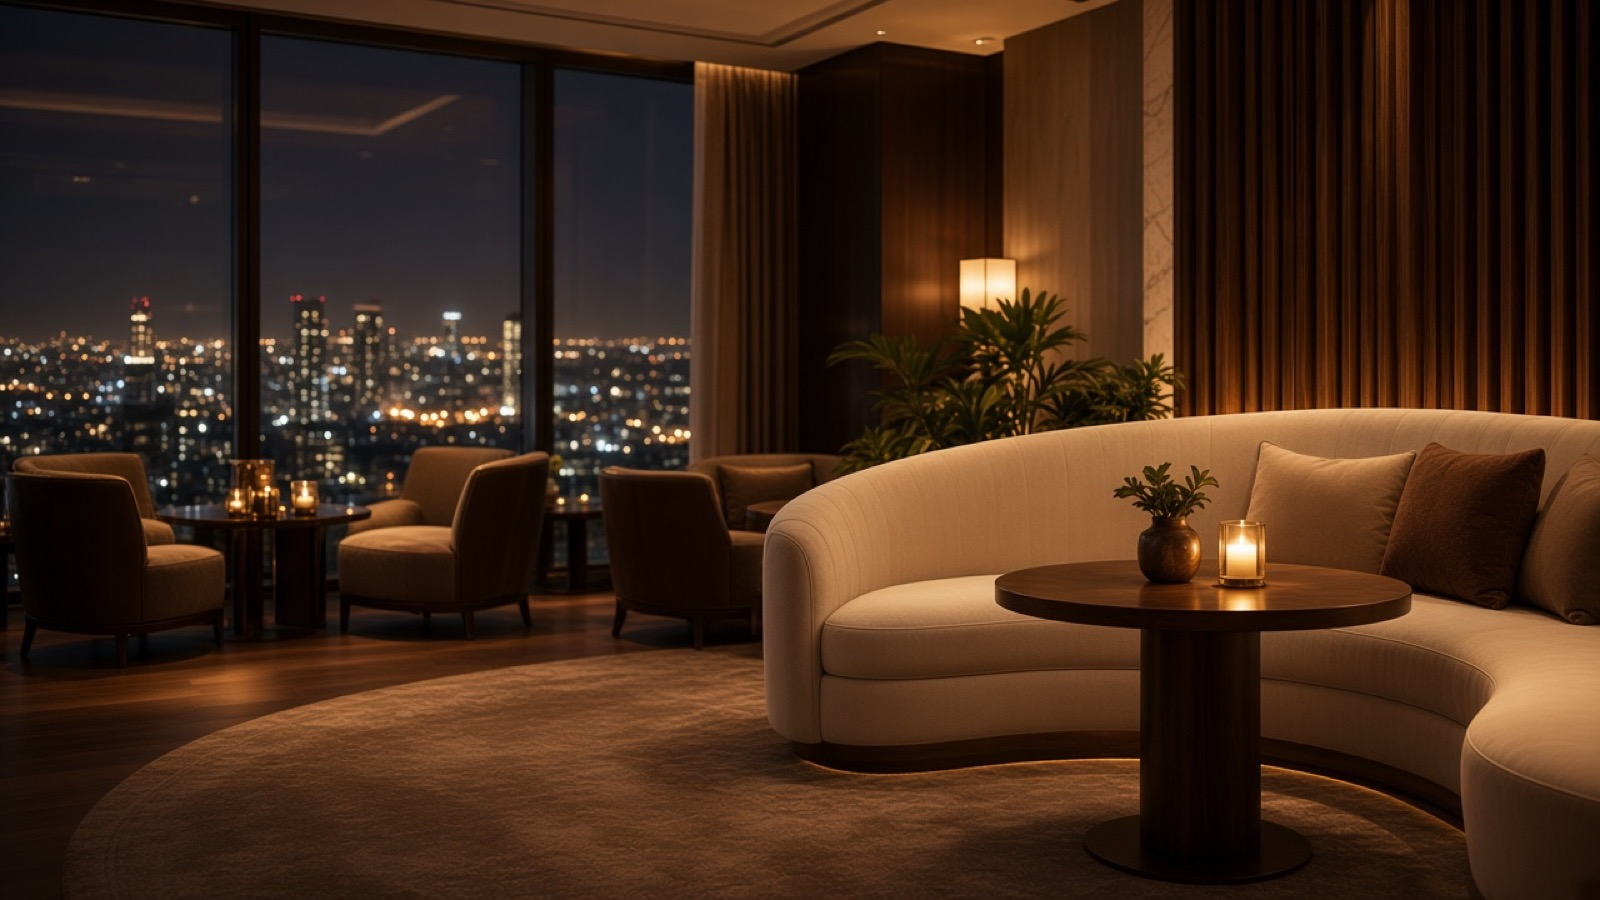
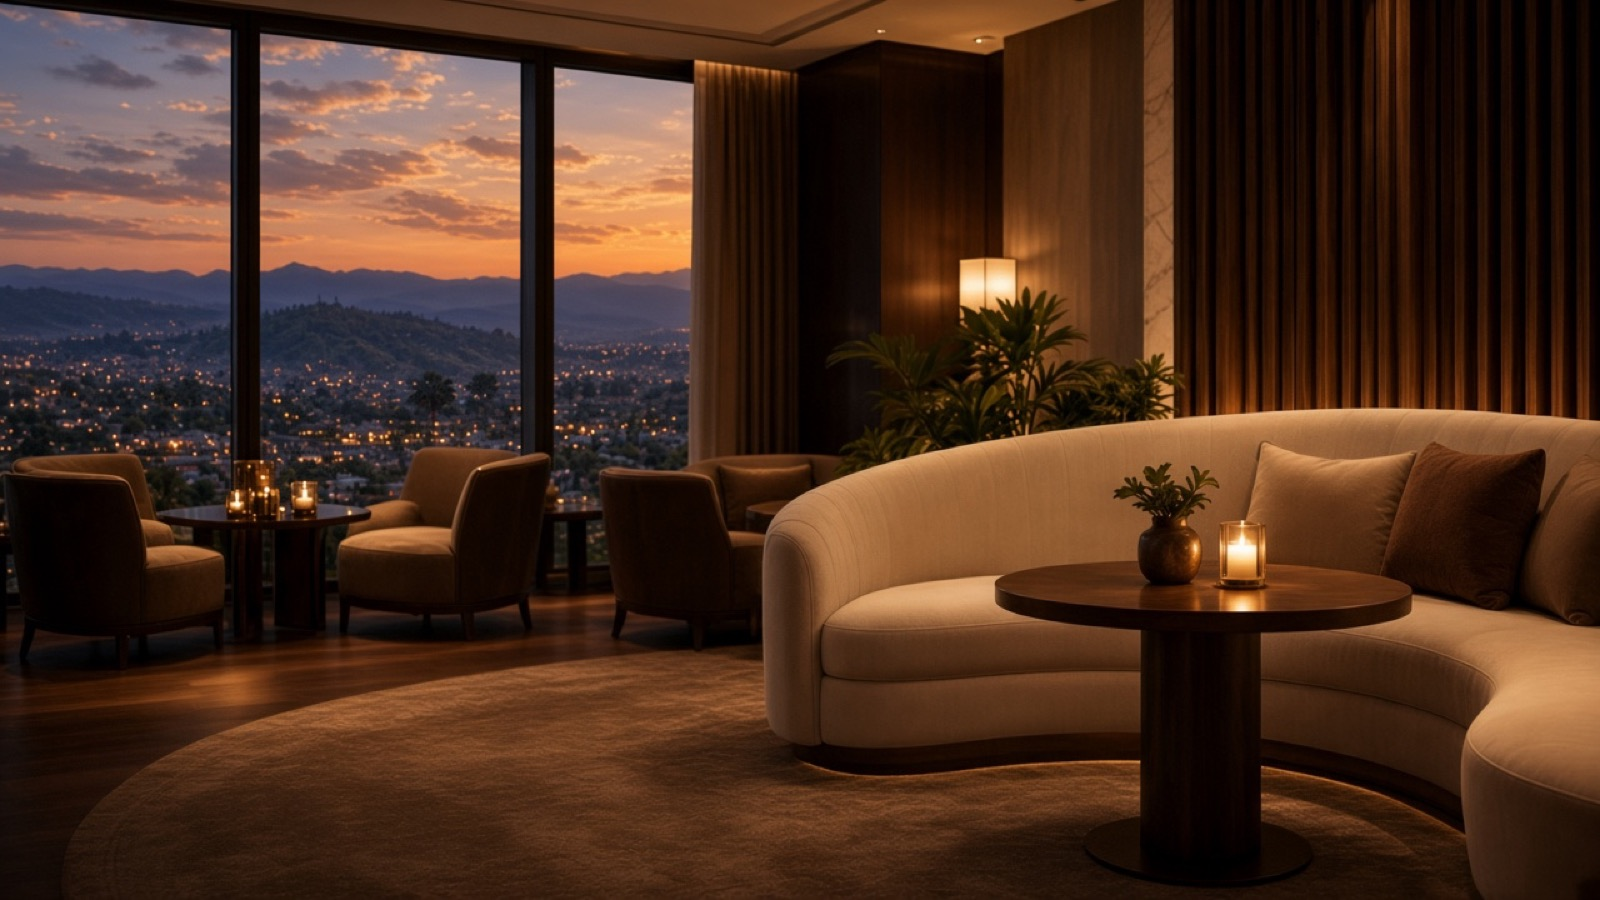
Simplify the Chill on the Hill header and show Bamenda.
The date page keeps the shared site menu, drops the extra hero lines, and uses a hillside view with a clearer table button.

diff --git a/laravel-app/resources/views/beyond/coth/index.blade.php b/laravel-app/resources/views/beyond/coth/index.blade.php
@@ -1,29 +1,12 @@
 @extends('beyond.layout')
 @section('title', 'Chill on the Hill · Skyline Hotel')
-@section('coth_landing', '1')
 @section('body_class', 'bg-[#140E0A]')
 @push('head')
 <style>
     .coth-land { background: #140E0A; color: #F6EFE4; min-height: 100vh; }
     .coth-land a { color: inherit; text-decoration: none; }
-    .coth-nav {
-        display: flex; align-items: center; justify-content: space-between; gap: 16px;
-        padding: 18px 28px; border-bottom: 1px solid rgba(198,161,91,.18);
-    }
-    .coth-brand { display: flex; align-items: center; gap: 10px; letter-spacing: .22em; }
-    .coth-brand strong { display: block; font-size: 13px; font-weight: 600; }
-    .coth-brand span { display: block; font-size: 9px; letter-spacing: .32em; color: #C6A15B; }
-    .coth-menus { display: flex; gap: 22px; font-size: 12px; letter-spacing: .16em; color: rgba(246,239,228,.78); }
-    .coth-menus a.on { color: #E8C878; box-shadow: inset 0 -1px 0 #E8C878; padding-bottom: 4px; }
-    .coth-bookstay {
-        border: 1px solid rgba(232,200,120,.7); color: #E8C878; border-radius: 999px;
-        padding: 8px 16px; font-size: 11px; letter-spacing: .16em; font-weight: 700;
-    }
-    .coth-hero { display: grid; grid-template-columns: 1.05fr .95fr; gap: 28px; align-items: center; padding: 36px 40px 10px; max-width: 1180px; margin: 0 auto; }
-    .coth-kicker { letter-spacing: .28em; font-size: 11px; color: rgba(246,239,228,.62); margin: 0; }
-    .coth-hero h1 { font-family: Georgia, "Times New Roman", serif; font-size: 64px; line-height: 1; font-weight: 500; margin: 10px 0 12px; }
-    .coth-hero p.lead { margin: 0; max-width: 460px; color: rgba(246,239,228,.78); font-size: 15px; }
-    .coth-meta { display: flex; flex-wrap: wrap; gap: 18px; margin-top: 18px; color: #E8C878; font-size: 14px; }
+    .coth-hero { display: grid; grid-template-columns: 1.05fr .95fr; gap: 28px; align-items: start; padding: 22px 40px 8px; max-width: 1180px; margin: 0 auto; }
+    .coth-hero h1 { font-family: Georgia, "Times New Roman", serif; font-size: 64px; line-height: 1; font-weight: 500; margin: 8px 0 0; }
     .coth-photo { position: relative; min-height: 280px; border-radius: 18px; overflow: hidden; }
     .coth-photo img { width: 100%; height: 340px; object-fit: cover; display: block; }
     .coth-photo::after {
@@ -79,12 +62,13 @@
     }
     .coth-selected p { margin: 0; color: rgba(246,239,228,.65); font-size: 13px; }
     .coth-selected strong { display: block; color: #F6EFE4; font-size: 22px; font-family: Georgia, "Times New Roman", serif; font-weight: 500; }
-    .coth-go {
-        background: #E4C98A; color: #2A1C12; font-weight: 700; border-radius: 12px; padding: 14px 22px;
-        letter-spacing: .02em; white-space: nowrap;
+    .coth-land a.coth-go {
+        background: #F0D078; color: #1A1008; font-weight: 800; font-size: 17px; border-radius: 12px;
+        padding: 16px 28px; letter-spacing: .01em; white-space: nowrap;
+        box-shadow: 0 0 0 2px #F0D078, 0 10px 28px rgba(240, 208, 120, .45);
     }
+    .coth-land a.coth-go:hover { background: #FFE7A3; color: #1A1008; }
     @media (max-width: 900px) {
-        .coth-menus { display: none; }
         .coth-hero, .coth-count, .coth-dates { grid-template-columns: 1fr 1fr; }
         .coth-hero { padding: 24px 16px 8px; }
         .coth-hero h1 { font-size: 42px; }
@@ -99,37 +83,13 @@
 @section('content')
 @php
     $first = $dates[0] ?? null;
-    $hero = asset('public/images/coth/hero-lounge.jpg');
+    $heroFile = public_path('images/coth/hero-lounge.jpg');
+    $hero = asset('public/images/coth/hero-lounge.jpg').(is_file($heroFile) ? '?v='.filemtime($heroFile) : '');
 @endphp
 <div class="coth-land">
-    <header class="coth-nav">
-        <a class="coth-brand" href="{{ url('/') }}">
-            <svg width="28" height="18" viewBox="0 0 28 18" fill="none" aria-hidden="true"><path d="M1 16 L8 6 L12 11 L16 3 L20 9 L27 16" stroke="#C6A15B" stroke-width="1.4"/></svg>
-            <div>
-                <strong>SKYLINE HOTEL</strong>
-                <span>BAMENDA</span>
-            </div>
-        </a>
-        <nav class="coth-menus" aria-label="Site">
-            <a href="{{ url('/') }}">HOME</a>
-            <a href="{{ url('/') }}">STAY</a>
-            <a href="{{ url('/menu') }}">DINE</a>
-            <a href="{{ url('/events') }}">EVENTS</a>
-            <a class="on" href="{{ route('coth.index') }}">COTH</a>
-            <a href="{{ url('/about') }}">ABOUT</a>
-        </nav>
-        <a class="coth-bookstay" href="{{ url('/') }}">BOOK A STAY</a>
-    </header>
-
     <section class="coth-hero">
         <div>
-            <p class="coth-kicker">SKYLINE HOTEL · BAMENDA</p>
             <h1>Chill on the Hill</h1>
-            <p class="lead">Reserve one table for one night, from 24 December 2026 to 2 January 2027. Prices are per table, per day.</p>
-            <div class="coth-meta">
-                <span>📅 24 December 2026 – 2 January 2027</span>
-                <span>📍 Skyline Hotel · Bamenda</span>
-            </div>
         </div>
         <div class="coth-photo">
             <img src="{{ $hero }}" alt="Lounge seating at Chill on the Hill">

diff --git a/laravel-app/resources/views/beyond/layout.blade.php b/laravel-app/resources/views/beyond/layout.blade.php
@@ -245,17 +245,13 @@
     $currentUrl = url()->current();
 @endphp
 
-@if (!View::hasSection('coth_landing'))
 @include('beyond.partials.site-header')
-@endif
 
 <main class="flex-1">
     @yield('content')
 </main>
 
-@if (!View::hasSection('coth_landing'))
 @include('beyond.partials.site-footer')
-@endif
 
 @include('beyond.partials.mbole_ai_widget')
 
